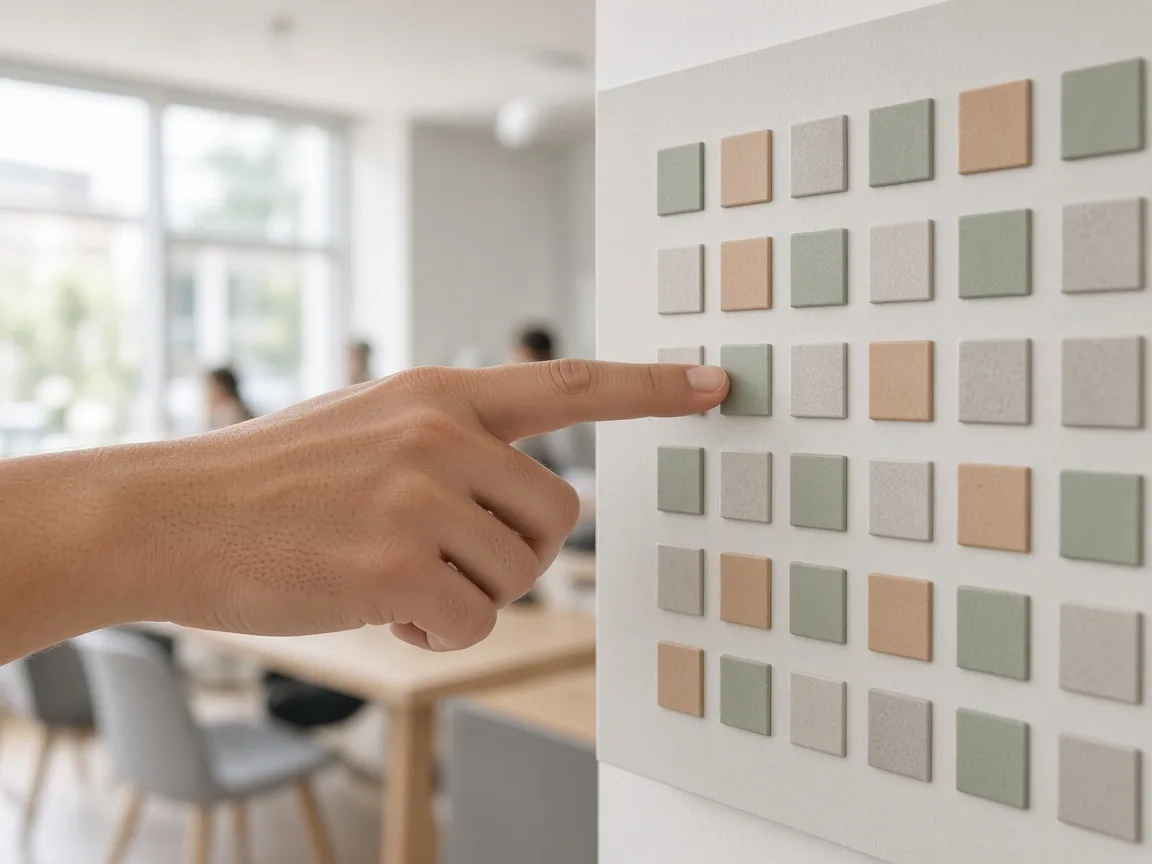
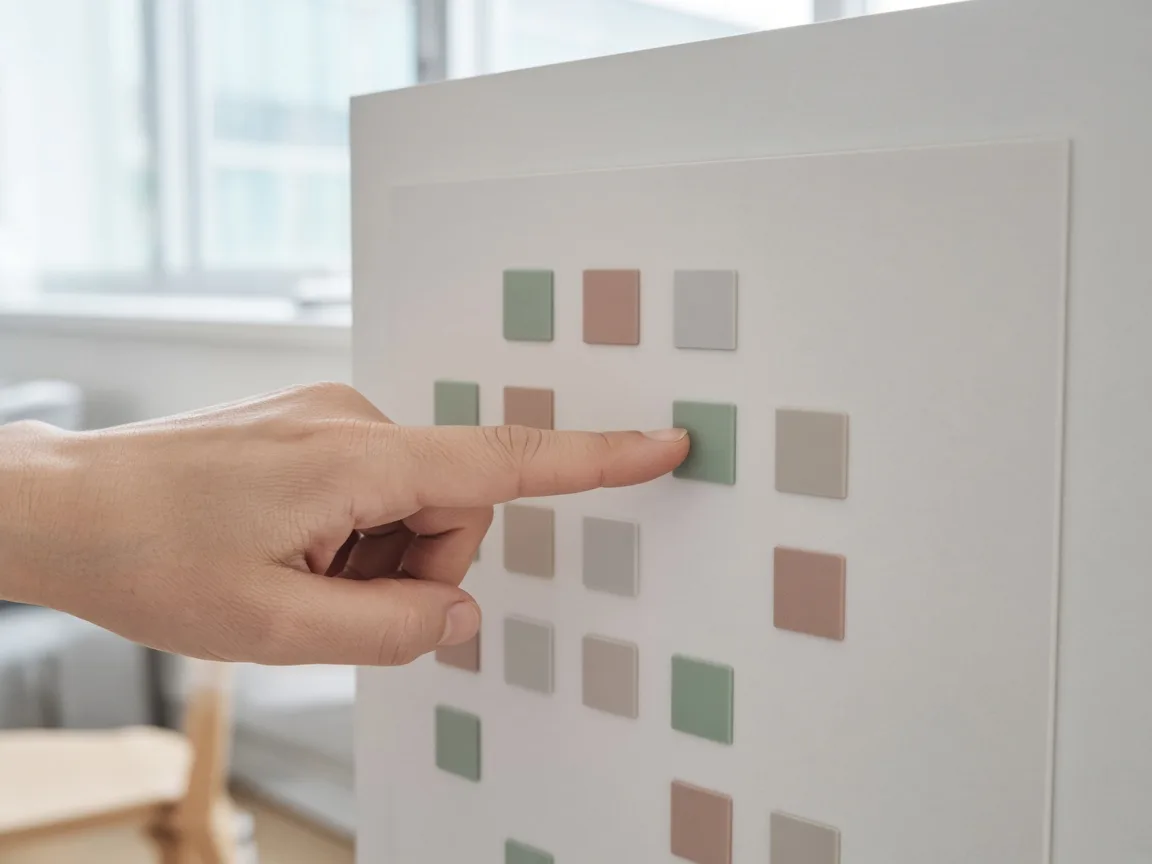
zaseki-panel: stage-1 fixes (hero plan lines removed, sage notice strip, new hold-panel-tap photo, hold rows top-aligned)

diff --git a/themes/zaseki-panel/style.css b/themes/zaseki-panel/style.css
@@ -75,7 +75,7 @@ a:focus-visible, button:focus-visible, summary:focus-visible { outline: 2px soli
 
 /* ---------- header ---------- */
 .zp-head-part { position: sticky; top: -50px; z-index: 50; background: var(--zp-base); border-bottom: 1px solid var(--zp-band); }
-.zp-strip { height: 50px; background: var(--zp-clay); display: flex; align-items: center; padding-inline: max(var(--zp-pad), calc((100% - 1120px) / 2)); overflow: hidden; }
+.zp-strip { height: 50px; background: var(--zp-sage); display: flex; align-items: center; padding-inline: max(var(--zp-pad), calc((100% - 1120px) / 2)); overflow: hidden; }
 .zp-strip__t { margin: 0; font-size: .875rem; font-weight: 600; line-height: 1.25; }
 .zp-strip__t a { display: inline-flex; align-items: center; gap: 10px; text-decoration: none; }
 .zp-strip__t a::before { content: ""; flex: none; width: 14px; height: 14px; border: 1px solid var(--zp-ink); border-radius: 50%; }
@@ -121,7 +121,6 @@ a:focus-visible, button:focus-visible, summary:focus-visible { outline: 2px soli
 .zp-hero__panel { position: relative; overflow: hidden; background: var(--zp-clay); display: flex; flex-direction: column; justify-content: flex-end; padding: 56px 48px; }
 .zp-gridwrap { position: absolute; inset: 0; z-index: 0; pointer-events: none; }
 .zp-grid { position: absolute; left: -20%; top: -12%; width: 140%; height: 54%; transform: rotate(-9deg); }
-.zp-plan { position: absolute; left: 0; right: 0; bottom: 0; width: 100%; height: 44%; }
 .zp-hero__text { position: static; }
 .zp-eyebrow { position: absolute; top: 40px; left: 48px; z-index: 2; margin: 0; padding: 6px 12px 6px 0; display: flex; align-items: center; gap: 10px; background: var(--zp-clay); font-size: .8125rem; font-weight: 600; letter-spacing: .08em; text-transform: uppercase; line-height: 1.2; }
 .zp-eyebrow::before { content: ""; width: 22px; height: 14px; background: var(--zp-accent); transform: skewX(-20deg); flex: none; }
@@ -157,7 +156,7 @@ a:focus-visible, button:focus-visible, summary:focus-visible { outline: 2px soli
 /* ---------- how a desk is held ---------- */
 .zp-hold { background: var(--zp-base); }
 .zp-rows { border-top: 1px solid var(--zp-rule); }
-.zp-row { display: grid; grid-template-columns: repeat(12, minmax(0, 1fr)); column-gap: 24px; align-items: center; padding-block: 40px; border-bottom: 1px solid var(--zp-rule); }
+.zp-row { display: grid; grid-template-columns: repeat(12, minmax(0, 1fr)); column-gap: 24px; align-items: flex-start; padding-block: 40px; border-bottom: 1px solid var(--zp-rule); }
 .zp-row__n { grid-column: 1 / span 2; font-family: var(--zp-display); font-size: 3.5rem; font-weight: 300; line-height: 1; color: var(--zp-accent); }
 .zp-row__t { grid-column: 3 / span 5; }
 .zp-row__h { font-size: 1.5rem; font-weight: 500; line-height: 1.25; margin-bottom: 12px; }
@@ -318,7 +317,6 @@ a:focus-visible, button:focus-visible, summary:focus-visible { outline: 2px soli
 	.zp-hero__panel { grid-column: 1 / -1; order: -1; display: block; min-height: 460px; padding: 0 20px 32px; }
 	.zp-gridwrap { position: relative; inset: auto; height: 190px; margin: 0 -20px 20px; overflow: hidden; }
 	.zp-grid { left: -20%; top: -20%; width: 140%; height: 130%; }
-	.zp-plan { display: none; }
 	.zp-eyebrow { position: static; margin: 0 0 12px; padding: 0; }
 	.zp-hero__h1 { font-size: var(--wp--preset--font-size--display); }
 	.zp-hero__row { margin-top: 24px; }

diff --git a/themes/zaseki-panel/patterns/front-hero.php b/themes/zaseki-panel/patterns/front-hero.php
@@ -19,7 +19,7 @@
 <!-- wp:group {"className":"zp-hero__panel","layout":{"type":"default"}} -->
 <div class="wp-block-group zp-hero__panel">
 <!-- wp:html -->
-<div class="zp-gridwrap" aria-hidden="true"><svg class="zp-grid" viewBox="0 0 768 512" preserveAspectRatio="xMidYMid slice" focusable="false"><rect class="zp-cell" x="133" y="133" width="118" height="118" fill="#C3D3C6"/><rect x="261" y="133" width="118" height="118" fill="#D9B3A4"/><rect x="133" y="261" width="118" height="118" fill="#CFCBC1"/><g stroke="#8C5648" stroke-width="10" fill="none"><path d="M0 0V512"/><path d="M128 0V512"/><path d="M256 0V512"/><path d="M384 0V512"/><path d="M512 0V512"/><path d="M640 0V512"/><path d="M768 0V512"/><path d="M0 0 H768"/><path d="M0 128 H768"/><path d="M0 256 H768"/><path d="M0 384 H768"/><path d="M0 512 H768"/></g></svg><svg class="zp-plan" viewBox="0 0 480 280" preserveAspectRatio="xMidYMax slice" focusable="false"><g fill="none" stroke="rgba(140,86,72,.14)" stroke-width="1"><rect x="20" y="40" width="70" height="40"/><rect x="100" y="40" width="70" height="40"/><rect x="180" y="40" width="70" height="40"/><rect x="260" y="40" width="70" height="40"/><rect x="340" y="40" width="70" height="40"/><rect x="20" y="110" width="70" height="40"/><rect x="100" y="110" width="70" height="40"/><rect x="260" y="110" width="70" height="40"/><rect x="340" y="110" width="70" height="40"/><rect x="20" y="180" width="70" height="40"/><rect x="180" y="180" width="70" height="40"/><rect x="260" y="180" width="70" height="40"/><path d="M10 10h460v260H10z"/></g></svg></div>
+<div class="zp-gridwrap" aria-hidden="true"><svg class="zp-grid" viewBox="0 0 768 512" preserveAspectRatio="xMidYMid slice" focusable="false"><rect class="zp-cell" x="133" y="133" width="118" height="118" fill="#C3D3C6"/><rect x="261" y="133" width="118" height="118" fill="#D9B3A4"/><rect x="133" y="261" width="118" height="118" fill="#CFCBC1"/><g stroke="#8C5648" stroke-width="10" fill="none"><path d="M0 0V512"/><path d="M128 0V512"/><path d="M256 0V512"/><path d="M384 0V512"/><path d="M512 0V512"/><path d="M640 0V512"/><path d="M768 0V512"/><path d="M0 0 H768"/><path d="M0 128 H768"/><path d="M0 256 H768"/><path d="M0 384 H768"/><path d="M0 512 H768"/></g></svg></div>
 <!-- /wp:html -->
 <!-- wp:group {"className":"zp-hero__text","layout":{"type":"default"}} -->
 <div class="wp-block-group zp-hero__text">
